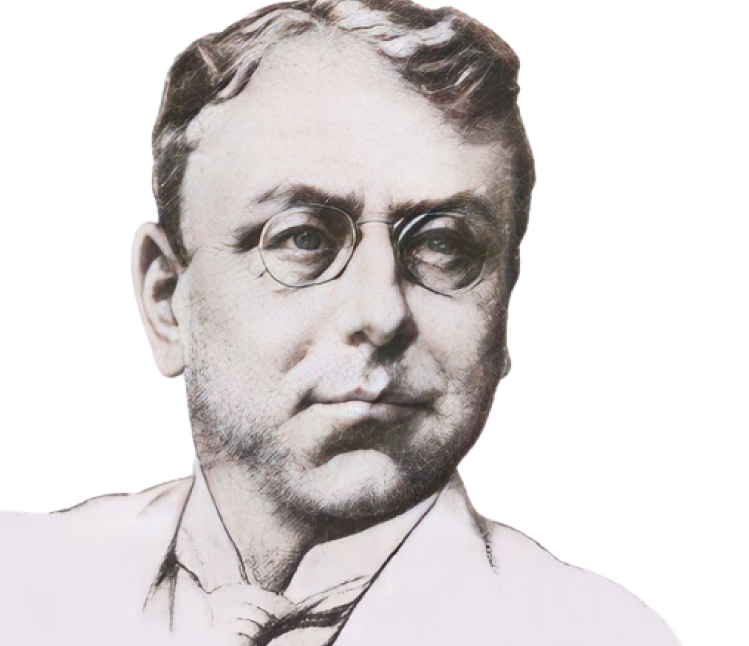
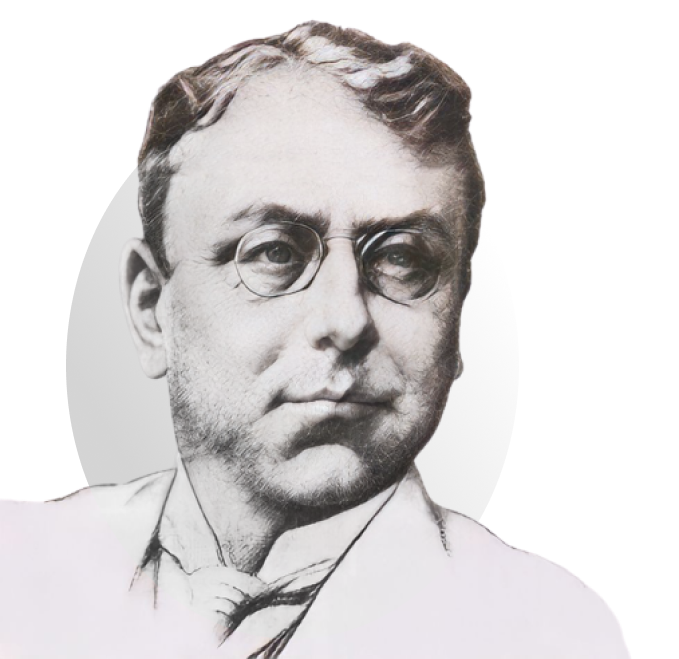
Added programme section with new background and updated colors.

Changed region(s): [[0.0, 0.0, 0.9278, 1.0]]

diff --git a/src/components/common/Programme.tsx b/src/components/common/Programme.tsx
@@ -1,5 +1,6 @@
 import { useState } from "react";
 import Button from "../ui/Button";
+import ButtonLink from "../ui/ButtonLink";
 
 const festivalDays = [
   {
@@ -107,9 +108,9 @@ type ProgrammeActivityProps = {
 
 function ProgrammeActivity({ programmeActivity }: ProgrammeActivityProps) {
   return (
-    <div className="flex gap-6 border-t border-primary-200 pt-4 first:border-transparent">
+    <div className="flex gap-6 border-t border-white pt-4 first:border-transparent">
       <div className="flex w-7/12 flex-col gap-2">
-        <p className="text-primary-200">
+        <p>
           {programmeActivity.date} {"->"} {programmeActivity.time}
         </p>
         <p className="text-3xl font-medium leading-normal text-white">
@@ -118,19 +119,19 @@ function ProgrammeActivity({ programmeActivity }: ProgrammeActivityProps) {
       </div>
 
       <div className="flex w-5/12 flex-col gap-4">
-        <div className="flex w-full items-center border-b border-primary-200 pb-2 text-primary-200">
+        <div className="flex w-full items-center border-b border-white pb-2">
           <p className="w-3/12">Kje</p>
 
           <p className="w-9/12">{programmeActivity.location}</p>
         </div>
 
-        <div className="flex w-full items-center border-b border-primary-200 pb-2 text-primary-200">
+        <div className="flex w-full items-center border-b border-white pb-2">
           <p className="w-3/12">Kaj</p>
 
           <p className="w-9/12">{programmeActivity.eventType}</p>
         </div>
 
-        <div className="flex w-full items-center text-primary-200">
+        <div className="flex w-full items-center">
           <p className="w-3/12">Cena</p>
 
           <p className="w-9/12">€{programmeActivity.price}</p>
@@ -146,7 +147,7 @@ export default function Programme() {
   const currentDay = festivalDays[selectedDay];
 
   return (
-    <section className="bg-primary-500 py-10 text-white 2xl:py-20">
+    <section className="bg-programme bg-cover bg-no-repeat py-10 text-white lg:py-32">
       <div className="mx-auto flex w-11/12 max-w-screen-xl flex-col gap-6">
         <div className="flex items-center justify-between">
           <p className="text-3xl font-medium">Program dogajanja</p>
@@ -156,7 +157,9 @@ export default function Programme() {
               <Button
                 onClick={() => setSelectedDay(festivalDay.dayNumber)}
                 intent={
-                  selectedDay === festivalDay.dayNumber ? "white" : "ghost"
+                  selectedDay === festivalDay.dayNumber
+                    ? "white"
+                    : "outline-white"
                 }
                 key={festivalDay.dayNumber}
               >
@@ -167,7 +170,7 @@ export default function Programme() {
         </div>
 
         <div className="flex justify-between gap-20">
-          <div className="w-3/12">
+          <div className="flex w-3/12 flex-col gap-6">
             <p>
               Na festivalu »Borštnik po Borštniku« vas čaka bogat in raznolik
               program, ki zajema voden ogled po kulturni dediščini Cerkelj,
@@ -181,6 +184,12 @@ export default function Programme() {
               druge, ter celodnevno počitniško varstvo in kreativne delavnice za
               otroke.
             </p>
+
+            <div>
+              <ButtonLink href="/" intent="outline-white">
+                Poglej vse dogodke
+              </ButtonLink>
+            </div>
           </div>
 
           <div className="flex w-9/12 flex-col gap-12">

diff --git a/src/components/ui/ButtonLink.tsx b/src/components/ui/ButtonLink.tsx
@@ -30,6 +30,7 @@ const buttonLink = cva(
           "border-transparent",
         ],
         "outline-black": ["bg-white", "text-neutral-950", "border-neutral-950"],
+        "outline-white": ["bg-transparent", "text-white", "border-white"],
         success: [
           "bg-success-600",
           "text-white",

diff --git a/src/components/ui/Button.tsx b/src/components/ui/Button.tsx
@@ -31,6 +31,7 @@ const button = cva(
           "border-transparent",
         ],
         "outline-black": ["bg-white", "text-neutral-950", "border-neutral-950"],
+        "outline-white": ["bg-transparent", "text-white", "border-white"],
         success: [
           "bg-success-600",
           "text-white",
